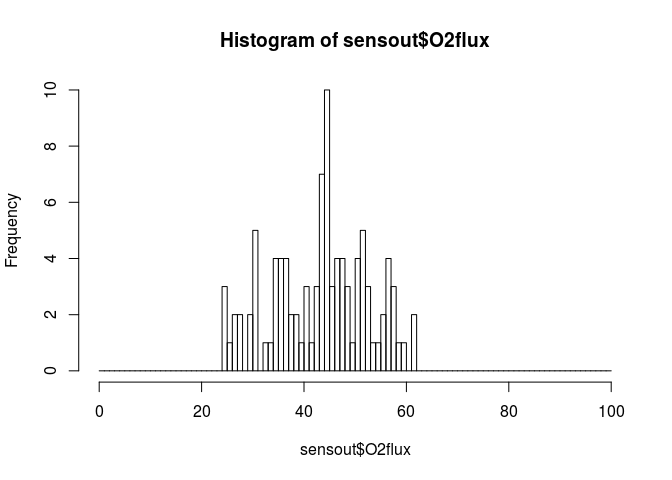
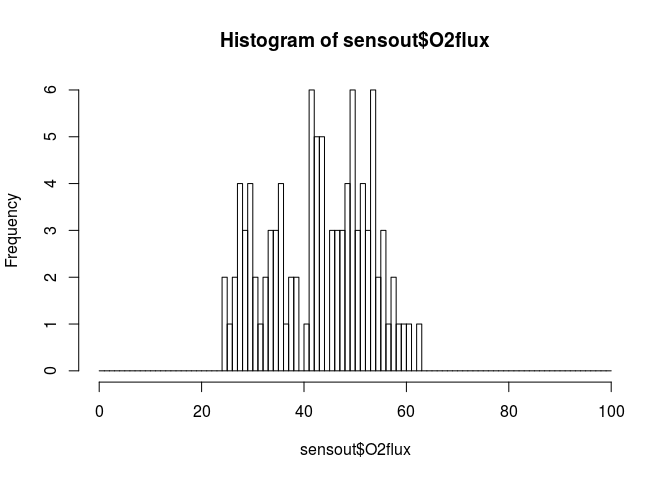
quick correction

diff --git a/DiageneticModelling_2019_Answers.md b/DiageneticModelling_2019_Answers.md
@@ -203,7 +203,7 @@ print(paste0(format(out2$O2flux, digits=5),' mmolO2/m2/d'))
 
     ## [1] "9.8531 mmolO2/m2/d"
 
-! WHEN YOU'RE DONE ! Execute the following code chunks in Rstudio, to explore interactively the role of each parameter.
+**When you're done,** execute the following code chunks in Rstudio, to explore interactively the role of each parameter.
 
 ( you might have to execute : `install.packages('shiny', repos='https://cran.rstudio.com/')` )
 
@@ -343,7 +343,7 @@ summary(Fitout)
     ## 
     ## Parameters:
     ##         Estimate Std. Error t value Pr(>|t|)
-    ## minrate 80843.54   53346.70   1.515    0.154
+    ## minrate 80843.28   53346.48   1.515    0.154
     ## ks         20.00      43.76   0.457    0.655
     ## 
     ## Residual standard error: 15.6 on 13 degrees of freedom
@@ -359,7 +359,7 @@ coef(Fitout)
 ```
 
     ##  minrate       ks 
-    ## 80843.54    20.00
+    ## 80843.28    20.00
 
 Those functions provides us with errors on the parameters of the model, that originate from the noise on the measurements. The error on the parameters can be used to infer the error on the fluxe estimates.
 
@@ -393,7 +393,7 @@ sensout<- sensRange(func=FluxatSteadyStatefunction,
         )
 ```
 
-The resulting estimate for the diffusive oxygen flux at the interface is thus 43.27 +/- 9.389
+The resulting estimate for the diffusive oxygen flux at the interface is thus 42.87 +/- 9.938
 
 ``` r
 hist(sensout$O2flux, breaks = seq(from=0,to=100,by=1))
@@ -545,7 +545,7 @@ TOCmodel <- function (t, S, p) {
     TOCtran <- tran.1D(C = TOC, flux.up = OMflux , D = Dbioturb, VF = 1- porosity, dx = grid)
     
     # Respiration
-    resp  <- TOC*minrate*(O2/(O2+ks))  # ! per volume of SOLIDS !
+    resp  <- TOC*minrate*(O2/(O2+ks))   # ! per volume of SOLIDS !
     respL <- resp*(1-porosity)/porosity # ! per volume of LIQUID !
     
     #Irrigation 
@@ -678,12 +678,14 @@ Exercise 5 : Nitrogen cycle
 -   As before, compute first the total respiration on the basis of the TOC variable.
 -   Total resp is then partitioned by computing first the relative importance of the different pathways :
 
-    -   Oxicminlim = O2/(O2+ksO2oxic)
-    -   Denitrilim = (1-O2/(O2+kinO2denit)) \* NO3/(NO3+ksNO3denit), ie. denitrification is limited by nitrate and inhibited by oxygen.
-    -   Anoxiclim = (1-O2/(O2+kinO2anox))\*(1-NO3/(NO3+kinNO3anox)), anoxic mineralisation is inhibited by both nitrate and oxygen.
-    -   Rescale = 1/(Oxicminlim+Denitrilim+Anoxiclim), we normalize, so that the three mineralisation pathways sum to 1.
+    -   `Oxicminlim = O2/(O2+ksO2oxic)`
+    -   `Denitrilim = (1-O2/(O2+kinO2denit)) * NO3/(NO3+ksNO3denit)`, ie. denitrification is limited by nitrate and inhibited by oxygen.
+    -   `Anoxiclim  = (1-O2/(O2+kinO2anox))*(1-NO3/(NO3+kinNO3anox))`, anoxic mineralisation is inhibited by both nitrate and oxygen.
+    -   `Rescale    = 1/(Oxicminlim+Denitrilim+Anoxiclim)`, we normalize, so that the three mineralisation pathways sum to 1.
 -   The oxydants consumption is then provided by
 
-    OxicMin = totresp*Oxicminlim*Rescale ! Oxic mineralisation Denitrific = totresp*Denitrilim*Rescale ! Denitrification AnoxicMin = totresp*Anoxiclim *Rescale ! Anoxic mineralisation, ie. ODU production
+    -   `OxicMin    = totresp*Oxicminlim*Rescale` : Oxic mineralisation
+    -   `Denitrific = totresp*Denitrilim*Rescale` : Denitrification
+    -   `AnoxicMin  = totresp*Anoxiclim *Rescale` : Anoxic mineralisation, ie. ODU production
 
 Solution : This is actually the complete OMEXDIA model ! Find the code and online version at : <http://www.rforscience.com/modelling/omexdia/> .
